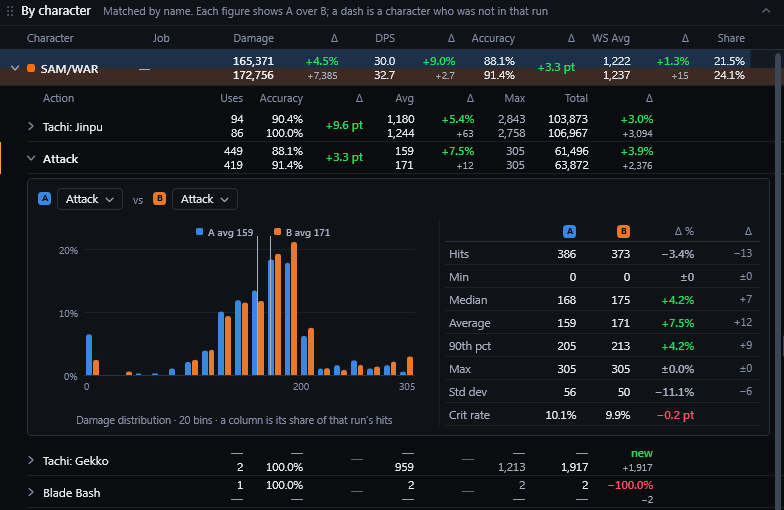
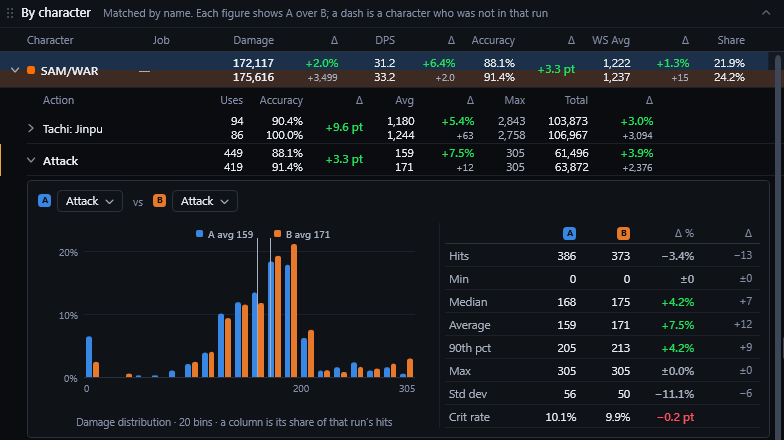
Updated README

diff --git a/README.md b/README.md
@@ -1,93 +1,195 @@
 # Zerg
 
-Zerg is a native Windows app (C#, WPF, .NET 10) that shows your party's damage
-and healing in FFXI, live, as you play.
+**Real-time damage and healing analysis for Final Fantasy XI parties and alliances.**
 
-![A Zerg panel floating over the game, showing each character's damage, share and accuracy](assets/screenshots/overlay.png)
+Zerg shows the damage, accuracy, weaponskills and healing of every character
+in your party or alliance as the fight happens, in a desktop window or in
+transparent panels over the game. Recorded sessions can be saved, reviewed,
+compared and shared. Zerg is free and open source, for Windows 10 and 11.
 
-**Panels over the game.** Pop any card out into its own see-through panel and
-lay it over FFXI. Panels stay on top, never take the keyboard from the game,
-and can be made click-through (Ctrl+Alt+Z) so your mouse passes straight to
-the game.
+**[Download the latest release](https://github.com/HasayaFFXI/Zerg/releases/latest)**
+· requires the [VibeXI](https://github.com/HasayaFFXI/VibeXI) addon
 
-![Zerg's summary: total damage, time, party DPS, top DPS and biggest hit, with a chip per character](assets/screenshots/summary.png)
+![A Zerg panel over the game, its clock, damage, share and accuracy figures updating and its rows reordering as a fight progresses](assets/screenshots/live-overlay.gif)
 
-**The fight at a glance.** Total damage, party DPS, the top damage dealer and
-the biggest hit, kept up to date as you play. Turn characters on and off with
-one press.
+## Getting started
+
+1. **Install the VibeXI addon.** Zerg's data comes from VibeXI, an Ashita v4
+   addon that records combat as you play. Download `VibeXI-<version>.zip`
+   from its [latest release](https://github.com/HasayaFFXI/VibeXI/releases/latest),
+   unzip it into your Ashita folder, and load it in game with
+   `/addon load vibexi`. The [VibeXI README](https://github.com/HasayaFFXI/VibeXI)
+   has the full instructions, including its setting for your server.
+2. **Install Zerg.** From the
+   [latest release](https://github.com/HasayaFFXI/Zerg/releases/latest),
+   download either:
+   - `Zerg-<version>-setup.exe`, which installs Zerg for the current user
+     (no administrator rights needed), or
+   - the zip, a portable `Zerg.exe` that runs from any folder.
+
+   Neither needs .NET installed separately. Zerg is not code-signed, so
+   Windows may show "Windows protected your PC". If it does, select
+   **More info**, then **Run anyway**.
+3. **Record a session.** Press **Start** in Zerg before the fight. The clock
+   starts at the first hit that counts. Press **Pause** when the fight ends.
+   Pressing Start during a session asks for confirmation first, so a
+   recording is not discarded by accident.
+
+Zerg does not interact with the game. Its only input is the event files
+VibeXI writes to `%LOCALAPPDATA%\VibeXI\events\`.
+
+## At a glance
+
+- **Session overview.** Total damage, Party DPS, the top contributor and the
+  biggest hit, for everyone in your party or alliance. Each character's
+  damage, share, DPS, accuracy, weaponskill, skillchain and pet figures are
+  updated during the fight.
+- **Action and hit detail.** Every attack, weaponskill and spell, down to
+  each individual hit, with its distribution.
+- **Breakdowns by target and damage type.** Isolate a single target or type,
+  and every other view recalculates to match.
+- **Healing.** Each healer's output, every heal, and Party HPS.
+- **Run comparison.** Two sessions side by side, with the change in every
+  figure, down to individual actions.
+- **Replay.** Any event file VibeXI has recorded can be opened, narrowed to a
+  time range and saved as a session.
+- **Overlay panels.** Any view can be placed over the game as a transparent,
+  always-on-top panel that never takes keyboard focus.
+
+## Features
+
+### Overlay panels
+
+Any pane can be popped out of the main window into its own panel and placed
+over the game. Panels stay on top, are transparent at an adjustable opacity,
+and never take keyboard focus from the game. A hot key (Ctrl+Alt+Z by
+default, changeable in Settings) makes them click-through, so mouse input
+passes to the game.
+
+<!-- Retake when convenient: the panel over a recognisable, mid-tone scene, all rows visible with no scroll bar, the in-game party list and chat log out of frame. -->
+![A Zerg panel over the game, listing each character's damage, share and accuracy](assets/screenshots/overlay.jpg)
+
+### Session overview
+
+![Zerg's Damage view of a replayed three-hour event file: the file's activity with the whole file selected, then total damage, elapsed time, Party DPS, top DPS and biggest hit, above the character table, a weaponskill's hit distribution, cumulative damage, and damage by type and by target](assets/screenshots/damage-window.png)
+
+The band across the top summarises the session: total damage, elapsed time,
+Party DPS, the top contributor and the biggest single hit. Below it, every
+view of the session is visible in one window. The session shown is a
+three-hour recording opened as a replay. Characters can be included or
+excluded with one press on their name.
+
+### Per-character breakdown
+
+![The Damage by character table: each character's damage, share, DPS and accuracy, weaponskill damage, average, share and accuracy, skillchain and pet figures, and a Party line](assets/screenshots/by-character.png)
+
+Each character's damage, share of the total, DPS and accuracy,
+followed by weaponskill, skillchain and pet figures, with a Party line that
+totals them. Each row is shaded to the character's share of the leader.
+Accuracy below a threshold you set is marked, which makes accuracy problems
+visible at once.
+
+### Action and hit detail
 
 ![The Actions table: each character's attacks and weaponskills, with hits, misses, total, average, min, max and share](assets/screenshots/actions.png)
 
-**Every action.** Open any character to see each attack and weaponskill they
-used, with hits, misses, total, average, min, max and its share of their
-damage.
+Expanding a character lists every action they used: hits, misses, total,
+average, minimum, maximum and share of their damage.
 
-![A drill-down into one weaponskill: min, average, max, median, spread and accuracy, a chart of its hits, and every single hit](assets/screenshots/drill-down.png)
+![A drill-down into one weaponskill: min, average, max, median, standard deviation and accuracy, a histogram of its hits, and every individual hit](assets/screenshots/drill-down.png)
 
-**Drill into one action.** Pick an action to see its average, median, spread
-and accuracy, a chart of how its hits landed, and every single hit, with the
-time and target.
+Selecting an action opens its distribution: minimum, average, maximum,
+median, standard deviation, accuracy, a histogram of every hit, and a list of
+each hit with its time, target and difference from the average. Two actions
+can be opened side by side, from the same character or from two characters,
+to compare them on one chart.
 
-![The Cumulative damage chart: each character's running total over a three-hour fight](assets/screenshots/cumulative.png)
+### Damage over time
 
-**Who's ahead, and when.** A running total per character across the whole
-fight, with small contributors grouped so the leaders stay readable.
+![The Cumulative damage chart: each character's running total over a three-hour session](assets/screenshots/cumulative.png)
 
-![The By damage type and By target tables: damage from melee, weaponskills, magic and pets, and each target's damage, share, accuracy and weaponskill figures](assets/screenshots/type-and-target.png)
+Each character's running total across the session. Characters below 5 % of
+the total can be grouped into one line so the leading lines stay legible.
 
-**Where the damage came from, and where it went.** Damage by type (melee,
-weaponskills, magic, pets, job abilities) and by target, with accuracy and
-weaponskill figures per target, low accuracy marked. Select a target or a type
-to isolate it, and everything else follows.
+### Damage by type and by target
 
-![Two runs of the same fight compared: A's and B's total damage, length, party DPS, accuracy and weaponskill damage, with the change in each](assets/screenshots/compare-summary.png)
+![The By damage type and By target tables: damage from melee, weaponskills, magic, pets and job abilities, and each target's damage, share, accuracy and weaponskill figures](assets/screenshots/type-and-target.png)
 
-**Compare your runs.** Open two parses as A and B and every figure shows what
-changed: damage, DPS, accuracy and weaponskills, for the party, each character
-or each job, each target and each damage type.
+Damage is broken down by type (melee, weaponskills, magic, pets, job
+abilities, skillchains) and by target. Each target also shows the overall
+accuracy against it and its weaponskill figures. Selecting a target or a type
+isolates it, and every other view recalculates. Use this to evaluate a single
+enemy, or to see how much of the damage came from weaponskills.
 
-![One character's actions compared between two runs, with the Attack drill-down laying A's and B's hits over each other beside a table of hits, median, average, 90th percentile, max, spread and crit rate](assets/screenshots/compare-actions.png)
+### Healing
 
-**Action against action.** Open a character to compare each of their actions
-between the two runs: uses, accuracy, average, max and total, each with its
-change. Open an action to lay A's hits over B's on one chart, with the two
-side by side on hits, median, average, 90th percentile, max, spread and crit
-rate. Try a different weaponskill or a new set of gear and see exactly what it
-was worth. You can even set one action against a different one.
+Healing is tracked the same way as damage, in its own section:
+- **Healing by character**: each character's healing, casts and average,
+  with pets' healing in a separate column.
+- **Heals**: every cure, waltz and pet heal per character, each with its own
+  drill-down.
+- **Cumulative healing**.
 
-![A replay of a three-hour event file: the activity across the whole file, with an hour picked from the middle, 23:38 to 00:42, and the figures for just that range](assets/screenshots/replay.png)
+Its summary band shows total healing, Party HPS, the top healer and the
+biggest heal.
 
-**Replay any night.** Open an event file the addon wrote, even one you never
-pressed Start for, and see its activity laid out across the whole file. Drag
-the range to just the fight you want and every figure follows; export that
-range as a parse to keep or compare.
+### Run comparison
 
-**Keep your parses.** Export a session as a `.zerg` parse and open it again
-later. Hide names before you share a screenshot.
+![Two sessions compared: each run's name, start and length, and A's and B's total damage, length, Party DPS, accuracy, weaponskill and skillchain damage, with the change in each](assets/screenshots/compare-summary.png)
 
-## Requirement: the VibeXI addon
+Two sessions can be loaded as A (the baseline) and B: two saved sessions, or
+one saved session and the session being recorded. Every figure then shows
+the change from A to B, by character or by job, by target and by damage
+type, for damage or for healing.
 
-**Zerg needs the [VibeXI](https://github.com/HasayaFFXI/VibeXI) Ashita addon.**
-The addon is Zerg's only data source: it reads the game's action packets and
-writes one line per event to `%LOCALAPPDATA%\VibeXI\events\`, and Zerg reads
-those files. Without the addon running in game, Zerg has nothing to show.
+![One character's actions compared between two runs, with A's and B's hits on one histogram beside their hits, median, average, 90th percentile, maximum, standard deviation and critical hit rate](assets/screenshots/compare-actions.png)
 
-**Before using Zerg, install VibeXI by following the installation instructions
-in the [VibeXI repository](https://github.com/HasayaFFXI/VibeXI).** Those
-instructions are the authority on setting up the addon; this repository does
-not repeat them.
+Expanding a character compares each of their actions across the two runs.
+Opening an action places both runs' hits on one histogram, next to a table of
+their median, average, 90th percentile, maximum, standard deviation and
+critical hit rate. This measures the effect of a change in equipment or
+weaponskill choice. An action can also be compared against a different
+action, such as one weaponskill against another.
 
-## Getting Zerg
+### Replay of recorded sessions
 
-Download Zerg from the [latest release](https://github.com/HasayaFFXI/Zerg/releases/latest):
-an installer, `Zerg-<version>-setup.exe`, or a zip with one `Zerg.exe` in
-it (Windows 10 or 11, 64-bit; nothing else to install) and a `README.txt`
-that says how to start. Both are made with `python tools/package.py` (the
-installer needs Inno Setup 6: `winget install JRSoftware.InnoSetup`); a new
-version merged to main is built and released by
-`.github/workflows/release.yml`.
+![A replay of a three-hour event file: damage across the whole file, with one hour selected, and the figures for that range](assets/screenshots/replay.png)
 
-## Building from source
+Any event file VibeXI has written can be opened in full, including sessions
+for which Start was never pressed. Its damage is plotted across the whole
+file. Drag the range handles, or type the times, to select one fight; every
+figure is recalculated for that range, which can be exported as a saved
+session.
+
+### Saved sessions and sharing
+
+- **Saving.** A paused session can be exported as a `.zerg` file. Each file
+  opened gets its own tab, so several sessions can be reviewed at once.
+- **Opening.** `.zerg` files open with a double-click once the file
+  association is set (the installer offers it), or by dropping them onto
+  Zerg.
+- **Sharing.** A `.zerg` file can be sent to anyone who uses Zerg.
+- **Privacy.** **Hide names** replaces character names with their jobs, for
+  screenshots and recordings.
+
+### Layout and display
+
+- **Panes.** Every pane can be resized, folded, moved or popped out. Zerg
+  remembers the arrangement of each section, and it can be locked.
+- **Sorting.** The character, action, heal, target, damage type and hit
+  tables sort by any column heading.
+- **Theme.** Light and dark themes.
+- **Skillchains.** Skillchain damage can be included or left out.
+
+## Files and support
+
+Settings and logs are kept in `%LOCALAPPDATA%\VibeXI\zerg\`. If something
+goes wrong, attach `logs\zerg.log` from that folder to an
+[issue](https://github.com/HasayaFFXI/Zerg/issues).
+
+## For developers
+
+Zerg is a native Windows app written in C# with WPF on .NET 10.
 
 ```
 dotnet build Zerg.slnx
@@ -95,9 +197,11 @@ dotnet test Zerg.slnx
 dotnet run --project src/Zerg
 ```
 
-`CLAUDE.md` has the full development notes, `RULES.md` the event contract and
-the reason behind every number Zerg prints, and `CHANGELOG.md` what each
-version changed.
+`python tools/package.py` makes both downloads (the installer needs Inno
+Setup 6: `winget install JRSoftware.InnoSetup`). A new version merged to main
+is built and released by `.github/workflows/release.yml`. `CLAUDE.md` has the
+development notes, `RULES.md` the event contract and the reason behind every
+number Zerg prints, and `CHANGELOG.md` what each version changed.
 
 ## License
 
